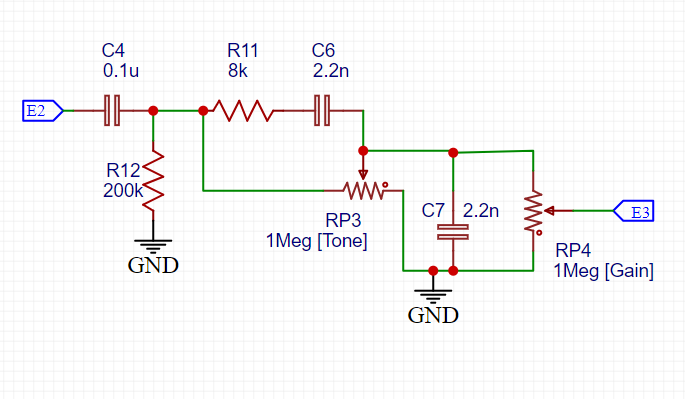
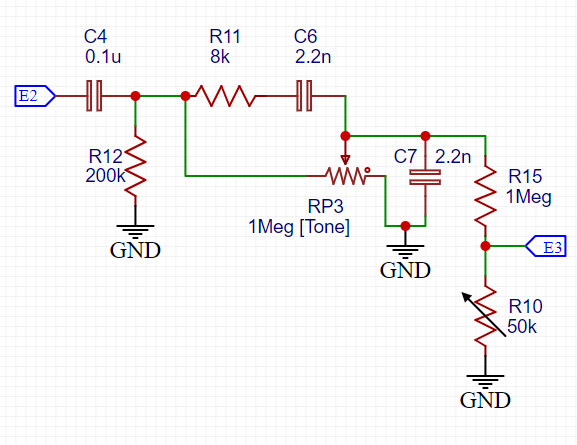
Updates from Overleaf

Changed region(s): [[0.0, 0.0602, 0.9983, 0.9323]]

diff --git a/Documentation LaTeX/main.tex b/Documentation LaTeX/main.tex
@@ -419,34 +419,54 @@ We divide the schematic into 5 sections for convenience:
 \subsection{Tube Amplification Stages}
 \tab Let us motivate how a tube works a little before diving in. The tube's cathode is heated with the rated voltage to initiate electron generation. The relative voltage between the anode and cathode drives current flow. This is controlled using the potential at the grid that comes in between the cathode \& anode, which resists the flow from cathode across itself before it reaches the anode.\\
 \tab The tube amp stage consists of two \textbf{Class-A Amplifiers} (See the figure below). The tube's three terminals are biased to a DC point of operation by setting the resistances and $V_A$. The point of operation is decided against the characteristic in the data-sheet based on the desired small signal behaviour.
-\begin{center}\includegraphics[height=7cm]{class-a.png}\\\small{Figure 2: Class-A Tube Amplifier}\end{center}
+\begin{center}\includegraphics[height=9cm]{class-a.png}\\\small{Figure 2: Class-A Tube Amplifier}\end{center}
 \tab Going in an orderly fashion from left to right: $R_{GB}$ must be a high resistance that makes the input impedance large ("Hi-Z") and sets the grid's DC point at $0V$. $R_G$ is used to damp oscillations higher than 20kHz. To explain this, we think about what happens once we amplify the AC small signal, the amplified output will cause miller effect making the parasitic capacitance $C_{GA}$ between grid and anode in the tube a large capacitance with which $R_G$ interacts to give a dominant pole in the system. $R_K$ is used to bias the Cathode. $R_A$ is used to bias the Anode  and control the small signal gain . We'll discuss the exact calculation of these two resistances soon. $C_B$ is essentially a decoupling capacitor (In-fact, we'll benefit from having several different valued capacitors in parallel combination in-place of $C_B$).\\
 
-\tab Let us calculate two different set of values for the resistances by setting the value of $V_a = 140V$ as our starting point: One for a fairly clean tone; One for a characteristic distorted tone. Then let us add potentiometers to switch between the two accordingly and resistance values that work for both of them accordingly. As for calculating and arriving at the values used in the above schematic: note that the second stage is just the first stage without the input handling, hence we use the same values for both.
-
-\begin{center}\includegraphics[height=10cm]{sch_tube.png}\\\small{Figure 3: Schematic - Tube Amp Stage}\end{center}
-\tab  From the above discussion, we may choose any large resistance and capacitance in place of $R_{GB}$ and $C_B$. $R_G$ too just needs to be not too large so that the $f_{-3dB}$ is still above 20kHz. To start with, we may just choose $R_{GB} = 1Meg$, $R_G = 20k$ and $C_B = 33\mu$. To calculate $R_A$, $V_A$ and $R_K$, let us first look at the data-sheet of our 12AX7.\\
+\tab Let us calculate two different set of values for the resistances by setting the value of $V_a = 140V$ as our starting point: One for a fairly clean tone; One for a characteristic distorted tone. This choice of $V_a$ allows for a maximum output voltage a $140V$ after the two amplification stages and anymore will clip. Then let us add potentiometers to switch between the two accordingly and resistance values that work for both of them accordingly. Note that the second stage is just the first stage without the input handling, hence we use the same values for both. Also we can set $R_{GB} = 1Meg \ ; \ C_B = 33\mu$ for both cases. Before we dive into the calculations we also attach the important characteristics from the 12AX7 data-sheet that we will be constantly referring to for calculations purposes.
+\newpage
 \begin{center}
-    \includegraphics[width=0.9\textwidth]{Documentation LaTeX/12ax7.png}\\
+    \includegraphics[width=\textwidth]{Documentation LaTeX/12ax7.png}\\
     \small{Figure 4: 12AX7 Characteristics}
-\end{center}\newpage
-\tab Let us begin with setting Plate Voltage (Anode - Cathode) = $100V$ because of being the safest value with concrete data to work with. Similarly the grid bias could be chosen to be $-1V$. To not restrict the possibilities of trying slightly different characteristics like the ones on the the first graph, we can add a potentiometer to control grid bias upto a variation of $\pm 0.5V$ while keeping all other calculations according to 1V. For the third constraint on our system of 3 parameters, we need to define small signal gain $A_v$. The small signal equation for the Tube Class-A Amplifier is:
+\end{center}
+Note here that operating in the fairly linear part of each line given in the first graph gives us a fairly clean tone. And the distorted tone is achieved by operating at the bottom parts of the graph, which is essentially where the non-linear effects are happening and harmonics of the signal will be generated. This harmonics generation is the very reason why we are choosing to use Tubes to process our Guitar. \newpage
+\subsubsection{Clean Tone}
+%\begin{center}\includegraphics[height=10cm]{sch_tube.png}\\\small{Figure 3: Schematic - Tube Amp Stage}\end{center}
+\tab Let us begin with setting Plate Voltage (Anode - Cathode) = $100V$ because of having concrete data to work with. Similarly the grid bias could be chosen to be $-1V$. This sets us into a region on the first graph where the behaviour is fairly linear. We need to define small signal gain $A_v$. The small signal equation for the Tube Class-A Amplifier is:
 \[i_p = \left(-\frac{v_{\text{out}}}{R_A}\right) = g_m v_\text{in} + \left(-\frac{v_{\text{out}}}{r_p}\right)\]
 \[\implies A_v = g_m\left(R_A \ || \ r_p\right)\]
-\tab According to the first graph, for $100V$ DC plate voltage and $-1V$ DC grid voltage, we will have a plate current of $0.5mA$. Which implies that: \[R_A\left(\frac{0.5}{1000}\right) = V_A - 100\] And also implies that \[R_K\left(\frac{0.5}{1000}\right) = 1\]
-According to the second graph, we have $g_m = 1250 \cdot 10^{-6} \ \Omega^{-1}$ and $r_p = 80k\Omega$. \[A_v = 1.25\cdot(R_{\text{A in k}\Omega} \ || \ 80)\]
-Clearly, there is a trade-off between the maximum $A_v$ we can push for and the minimum $V_A$ we can bring down the make the pedal safer against human errors, but let us settle for the following:\\
-\[\boxed{R_A = 80k\Omega}\\\boxed{V_A = 140V}\\ \boxed{R_K = 2k\Omega}\]
-If we manage to get a $V_A$ that is not exactly $140V$, we can change $R_A$ accordingly. We can allow a trimpot setup to let $R_K=1k\Omega \text{ to } 3k\Omega$
+\tab According to the first graph, for $100V$ DC plate voltage and $-1V$ DC grid voltage, we will have a plate current of $0.5mA$. Which implies that: \[R_A\left(\frac{0.5}{1000}\right) = 140 - 100\] And also implies that \[R_K\left(\frac{0.5}{1000}\right) = 1\]
+Thus for $V_A = 140V, E_P = 100V, V_G = -1V$, we have: 
+\[\boxed{R_{A} = 80k\Omega}\\\boxed{R_{K} = 2k\Omega}\]
+According to the second graph, we have $g_m = 1250 \cdot 10^{-6} \ \Omega^{-1}$ and $r_p = 80k\Omega$. \[A_v = 1.25\cdot40 = 50\]
+Clipping occurs when $100 + 50V_i < 140V$ as long as the input is smaller than 0.8V, which it is. Further, for the choice of $R_G$ we need to consider the parasitic capacitance between the Anode and Grid $C_AG$ (found in the data-sheet) which due to miller effect will have an apparent capacitance of $A_vC_{AG}$. Although the exact transfer function between the input and the output is complicated, we can simply mention here without proof that the dominant pole is associated with the interaction of $R_G$ and $A_vC_{AG}$ hence we choose an $R_G$ such that \[\frac{1}{2 \pi R_G (50) C_{AG}} > 20 kHz \implies \boxed{R_G < 93k}\]
+
+\subsubsection{Distorted Tone}
+\tab Like mentioned earlier we need to operate at the bottom non-linear region of the characteristics. Let us proceed by choosing the operating point of $I_P = 0.25 mA$, with $V_G=-1V$ and $V_P = 75V$. This is a nice common point for us since it lies almost right in between our dynamic range. 
+\[R_A\left(\frac{0.25}{1000}\right) = 140 - 75\] And also implies that \[R_K\left(\frac{0.2}{1000}\right) = 1\]
+Thus for $V_A = 140V, E_P = 75V, V_G = -1V$, we have: 
+\[\boxed{R_{A} = 260k\Omega}\\\boxed{R_{K} = 5k\Omega}\]
+Second graph doesn't have data for our chosen point of operation direction. But since visually the curves seem as if the $E_P$ is just shifting the curves to the left, let us proceed with the same assumption. Thus we can estimate $g_m = 0.775 \cdot 10^{-6} S$ and $r_p = 120k\Omega$\[A_v = 0.775\cdot82 = 63.55\]
+So we need to have $75 + 63.55\cdot V_i < 140$ which will hold good. And for $R_G$, we have:
+\[\frac{1}{2 \pi R_G (63.55) C_{AG}} > 20 kHz \implies \boxed{R_G < 73k}\]
+
+\subsection{Combining Both}
+\begin{center}
+\includegraphics[height=13cm]{Documentation LaTeX/sch_tube.png}\\\small{Figure 4: Schematic - Tube Amplification Stages}
+\end{center}
+In the above schematic, $R_G$ was chosen to be $50k$ just to be on the safer side with not scooping out audible frequencies. $R_K$ has been made a combination of a $2k\Omega$ resistor and a $3k\Omega$ potentiometer. $R_A$ has been made a combination of an $80k\Omega$ resistance and a $200k\Omega$ potentiometer. This allows us to transition to both the configurations with also an option to explore other possibilities like reducing the grid bias alone while keeping the $R_A$ unchanged or changing $R_A$ alone while keeping $R_K$ unchanged. \newpage
 \subsection{Tone Control}
-\tab For tone control we aim to have one knob that takes the response form a bass-heavy to a high-presence. To achieve this with only passive elements, a decent amount of hit-and-miss was used by simulating different ideas and values in LTSpice. This was achieved:
+\tab For tone control we aim to have one knob that takes the response form a bass-heavy to a high-presence. To achieve this with only passive elements, a decent amount of hit-and-miss was used by simulating different ideas and values in LTSpice. This was achieved using LTSpice:
 \begin{center}\includegraphics[width=\textwidth]{Documentation LaTeX/response.png}\\\small{Figure 5: Tone Control Response}\end{center}
-\begin{center}\includegraphics[width=0.7\textwidth]{Documentation LaTeX/sch_tone.png}\\\small{Figure 6: Schematic - Tone Control}\end{center}
-\subsection{Output Stage}
-\tab By the time we reach here we have possibly amplifies our signal by a gain factor of 250 or so, which is possibly not what a digital practice amplifier or any home speaker is designed to take, unlike having another power amplification stage. This we include a master volume stage that can be tweaked to have gain factors up to $\frac{10}{250}$. The amplifier is protected with a fuse too.
+\begin{center}\includegraphics[width=0.6\textwidth]{Documentation LaTeX/sch_tone.png}\\\small{Figure 6: Schematic - Tone Control}\end{center}
+\tab Although this was achieved with hit-and-miss and LTSpice simulation, this isn't to say there is not motivation behind this. Note that we can't use a simple bandpass owing to the fact that the signal coming out of the amplifier's first stage has a passive highpass for AC coupling. But we can try to cascade this with two paths resembling a low pass and a high pass respectively but with a potentiometer to control the response and a resistance in series with C6 to avoid having a purely capacitive path (otherwise AC coupling won't happen). We include the transfer function below for completeness. \[\textbf{Work} = \frac{\textbf{In}}{\textbf{Progress}}\]
+\tab Note here that the signal was amplified to almost $50$ to $65$ times in the first tube stage. Hence we need to attenuate it at the end. Thus there is a 1 Meg resistance in series with a $50k\Omega$ potentiometer to do the attenuation but also give some control on how much the second stage is driven.
+\newpage\subsection{Output Stage}
+\tab By the time we reach here we have amplified our signal by another factor of 50 or so, which is possibly not what a digital practice amplifier or any home speaker is designed to take. This is the distinction between building a pre-amplifier for an upcoming power amplification stage and building a guitar pedal. The output stage includes a powered path and a passive path. We use the powered path \textbf{1.} When we are still prototyping and need to protect the amplifier with a fuse until the circuit is tried and tested or \textbf{2.} When our practice amplifier is not a "Hi-Z" amplifier in which case the current through the Amplifier will affect our 2nd Tube stage. When the powered path isn't necessary we switch to the passive path so as to cut down on the noise introduced by the powered amplification and fuse. 
 \begin{center}\includegraphics[width=0.6\textwidth]{Documentation LaTeX/sch_output.png}\\\small{Figure 7: Schematic - Output Stage}\end{center}
+\tab The values of potentiometers and resistances were decided so as to give us a master volume factor between 0 to $\frac2{50}$.
 \subsection{Power Regulation}
-\tab 12V, -12V, 140V, 6.3V are all the four power lines required in the pedal. Since tubes consume a lot of energy, taking these off from 9V batteries is infeasible, hence we are left with options to either use transformers with AC or use DC adapters and then use DC-DC converter. Since the latter is a more handier option, we'll proceed with it. 
+\tab 12V, 6V, 140V, 6.3V are all the four power lines required in the pedal. Since tubes consume a lot of energy, taking these off from 9V batteries is infeasible, hence we are left with options to either use transformers with AC or use DC adapters and then use DC-DC converter. Since the latter is a more handier option, we'll proceed with it. Below are the methods used to get these power lines. 
+\begin{center}\includegraphics[width=0.6\textwidth]{Documentation LaTeX/sch_power.png}\\\small{Figure 7: Schematic - Output Stage}\end{center}
     \section{Methodology \& Practical Implementation}
     \section{Results}
 
